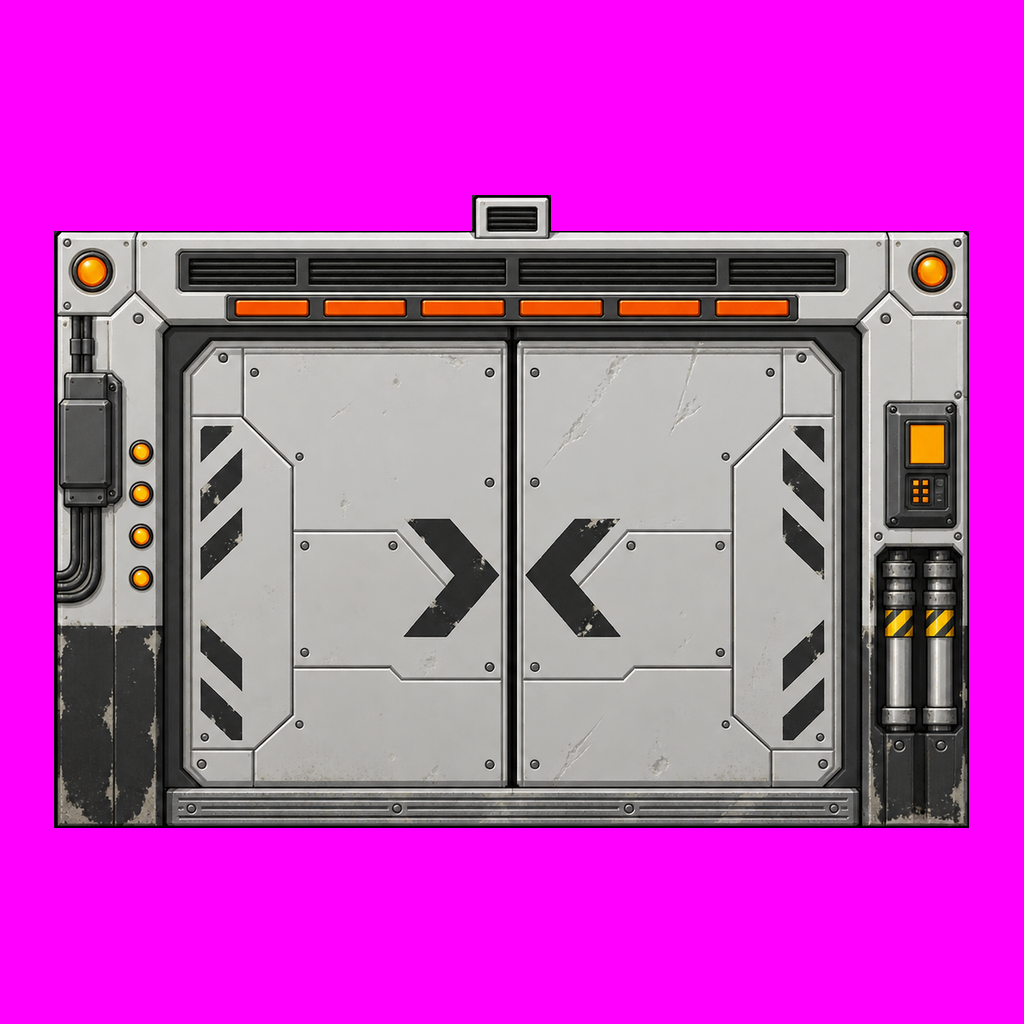
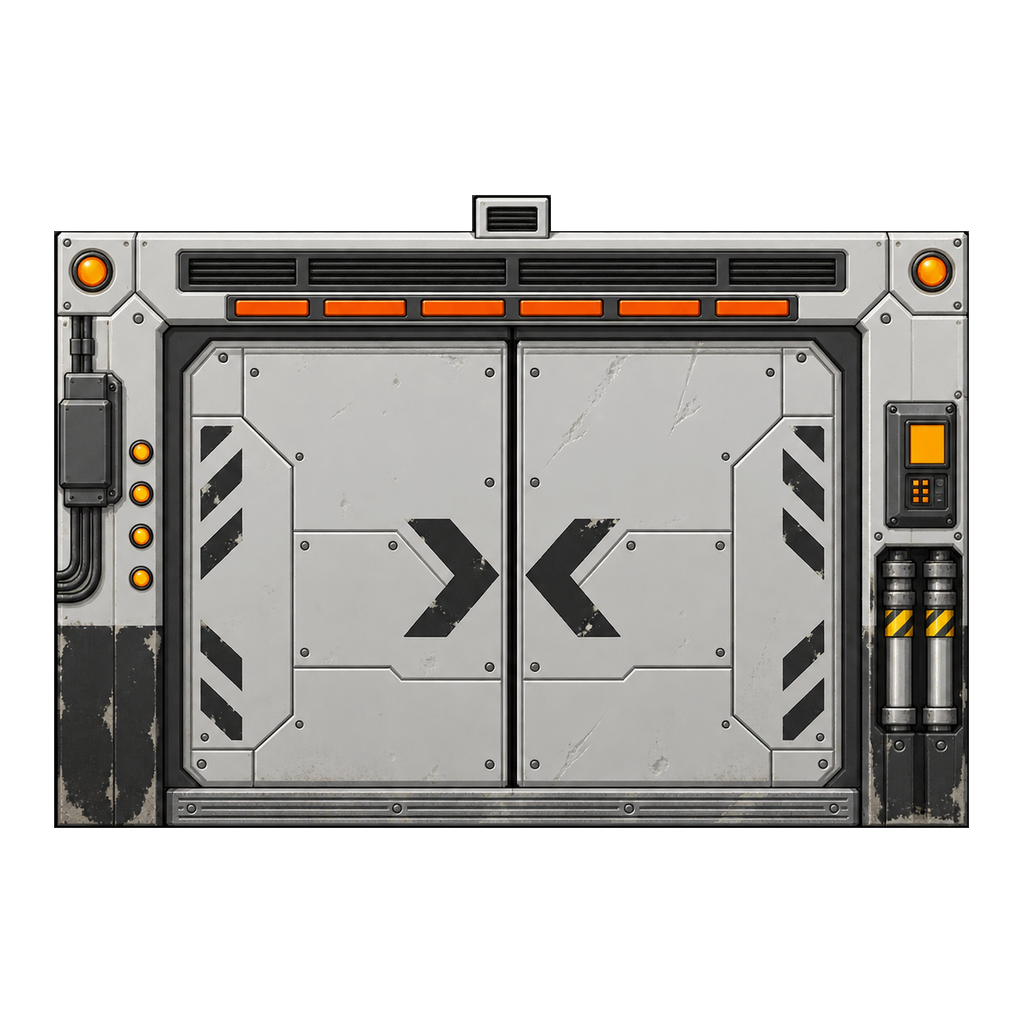
工程區換上使用者手修的乾淨版素材，刪掉四張電腦桌
- 使用者修過原圖（大門、製造機、靠牆設備、貨架、機台、小雜物）：去掉鏽斑油污，改成乾淨的 2070 年星艦科技風，背景改透明
- 刪掉研發桌、設計終端、製造機操作台、檢修工作台（太舊工業風）；配桌的椅凳先不擺
- skill 補上年代感：2070 年星艦科技、乾淨保養良好、不要鏽，prompt 範本加上這句

diff --git a/src/game/facility.test.ts b/src/game/facility.test.ts
@@ -132,7 +132,6 @@ console.log('greenhouse ok');
   for (let y = 0; y < e.height; y++) for (let x = 0; x < e.width; x++) {
     if (blocked(e, x, y)) { assert.equal(walkable(e, centre(x, y)), false, `tile ${x},${y}`); continue; }
     if (!walkable(e, centre(x, y))) continue;   // 牆簷底下那一列只有上緣能站
-    if (y === 3 && x <= 4) { assert.deepEqual(findPath(e, fromC, centre(x, y)), [], `tile ${x},${y} is behind the valves and R&D bench`); continue; }
     assert.ok(findPath(e, fromC, centre(x, y)).length, `engineering tile ${x},${y} reachable`);
   }
   const { passage } = door, wallTop = passage.y, wallBottom = passage.y + passage.h;

diff --git a/tools/art/engineering_objects.py b/tools/art/engineering_objects.py
@@ -9,23 +9,20 @@ sheet／order：在哪張生圖、第幾件（由左到右、由上到下）。t
 T = 96
 
 # (id, 名稱, cx, bottom, width, depth, sheet, order, text, stand)
+# 風格：2070 年的星艦科技，乾淨、少磨損、不生鏽（使用者 2026-10-04 修過原圖，去掉鏽斑油污）
 OBJECTS = [
     # 左上：研發角
     ('valves',          '管線閥門組',     184, 495, 177, .7, 'batch7_wall_units', 0, '幾個手輪閥門和壓力錶，其中一支指針微微抖動。', None),
-    ('rnd-bench',       '研發桌',         394, 472, 218, 1, 'batch9_desks', 0, '拆開的原型機攤在桌上，旁邊的示波器跳著波形。', (300, 520)),
     ('robot-arm',       '組裝機械手臂',   597, 453, 120, 1, 'batch10_machines', 1, '機械手臂把小零件一個個裝進外殼，動作很穩。', None),
-    ('fab-console',     '設計終端',       398, 892, 201, 1, 'batch9_desks', 1, '螢幕上開著一張改良到一半的零件設計圖。', (300, 940)),
     # 右上：製造區
     ('drums',           '耗材油桶',       820, 399, 155, .9, 'batch11_small', 0, '', None),
     ('fabricator',      '大型製造機',    1162, 537, 525, 2.2, 'batch6_fabricator', 0, '加工艙裡正在成形一批管件接頭，噴頭來回移動，光一明一滅。', (1162, 600)),
-    ('section-monitor', '製造機操作台',  1004, 705, 207, 1, 'batch9_desks', 2, '排程上列著幾筆零件訂單，最上面那筆標著「急件」。', (1110, 760)),
     ('materials',       '材料架',        1328, 1083, 225, .8, 'batch8_shelving', 0, '板材、管材和一捲捲線材，按尺寸分格堆放。', (1180, 1060)),
     # 西牆
     ('power-panel',     '配電盤',         183, 1118, 180, .8, 'batch7_wall_units', 1, '一整排斷路器，每個開關旁都貼著手寫標籤。', (330, 1100)),
     ('tool-wall',       '工具牆',         209, 1450, 197, .8, 'batch7_wall_units', 2, '扳手、焊槍和量具照輪廓掛好，只有一格是空的。', (360, 1430)),
     ('lockers',         '休息角',         239, 1770, 257, .8, 'batch7_wall_units', 3, '置物櫃上貼著班表，咖啡機旁擺著一個沾了油漬的馬克杯。', (420, 1740)),
     # 中央：維修區
-    ('workbench',       '檢修工作台',     501, 1170, 228, 1, 'batch9_desks', 3, '桌面上有拆到一半的設備，螺絲按順序排在磁盤裡。', (380, 1220)),
     ('repair',          '維修中機台',     788, 1173, 285, 1.2, 'batch10_machines', 0, '外殼被打開了，裡面有一片燒黑的電路板。', (788, 1230)),
     ('tool-cart',       '工具推車',      1065, 1161, 165, .8, 'batch11_small', 2, '', None),
     # 東牆
@@ -37,12 +34,8 @@ OBJECTS = [
 ]
 
 # 椅子、凳子：不擋路、不能互動，同一張圖可以擺很多次（id, 圖, cx, bottom）
-SEATS = [
-    ('stool-rnd',       'stool', 403, 502),
-    ('stool-terminal',  'stool', 398, 927),
-    ('chair-console',   'chair', 997, 730),
-    ('chair-workbench', 'chair', 497, 1200),
-]
+# 2026-10-04 使用者刪掉四張電腦桌（太舊工業風），配桌子的椅凳也先不擺；圖保留，要用時加回來，例：('chair-console', 'chair', 997, 730)
+SEATS = []
 # 椅子、凳子的原圖在哪張、第幾件、遊戲裡多寬
 SEAT_SPRITES = {'chair': ('batch11_small', 4, 78), 'stool': ('batch11_small', 5, 57)}
 

diff --git a/docs/scenes/engineering.md b/docs/scenes/engineering.md
@@ -5,6 +5,7 @@
 機台依工作流程分區（v5，2026-10-04）：大門內側右邊收件區（待修品架、剛送來的待修品、貨箱）、左邊休息角；中央 4 格寬通道從大門直通維修區（維修中機台在通道盡頭，四周警示條紋，兩旁工作台與工具推車）；右上製造區（大型製造機、操作台，東牆材料架供料、零件架靠近維修區）；左上研發角（研發桌、組裝手臂、設計終端，離門最遠）；西牆公用設備（閥門組接北牆管線、配電盤、工具牆）。
 
 - 機台照 `.claude/skills/starport-scene-props/` 的流程做（2026-10-04 v6）：先在底圖上生兩張擺設參考圖（`tools/art/engineering/raw/batch4_dressed_top.png`、`batch5_dressed_bottom.png`），再依參考圖分 6 批生最終物件（`batch6`–`batch11`），prompt 在 `場景/工程區/`。第一版（batch2、batch3）是正面圖，已淘汰。
+- 2026-10-04 使用者手修原圖：去掉鏽斑油污，改成乾淨的 2070 年星艦科技風；刪掉四張電腦桌（研發桌、設計終端、製造機操作台、檢修工作台），配桌的椅凳也先不擺（圖保留在 props/chair、stool）。原圖改成透明背景。
 - 機台清單 `tools/art/engineering_objects.py`：位置與大小是量自參考圖的遊戲 px（底部中心、圖寬、碰撞深度），加上在哪張生圖第幾件。椅子、凳子在 `SEATS`，不擋路。
 - **要修改時**：
   - 改圖：修 `tools/art/engineering/raw/<批次>.png`，再跑 `uv run --with pillow --with numpy --with scipy python tools/art/engineering_props.py <批次>`（或 `all`）。直接改 `public/assets/engineering/props/<名稱>.webp` 也可以，但重切會被蓋掉。
@@ -12,7 +13,6 @@
   - 改完都要重跑 `engineering_build.py`，再跑 `engineering_door.py cut tools/art/engineering/raw/batch1_door.png`。
 - 切圖：自動找出每件（相距 40 px 內的併成一件，散落零件併給 80 px 內的大塊），依閱讀順序對到清單，縮到參考圖量出的寬度；比例差太多的（機械手臂）改照高度（`HEIGHT_FIT`）。
 - 碰撞是每件從底邊往上 depth 格的精細矩形（collisionRects）；互動站位由 `engineering_build.py` 自動挑：從入口走得到、在互動範圍內（離圖 ≤ 48 px）、最靠近正前方、不站在椅子上。
-- 第 3 列第 1–4 欄夾在閥門組／研發桌和北牆之間，走不到，是刻意的。
 - GM 會拿到工程區的物件清單與玩家附近的物件（facilityContext.ts）。
 
 - 地圖 16 × 30 格（每格 96 px）。室內第 0–18 列，其中 0–2 列是北牆立面；第 19 列以下是走廊。

diff --git a/docs/PROGRESS.md b/docs/PROGRESS.md
@@ -53,7 +53,7 @@
 - 居住區 A 走廊：可遊玩，說明見 `docs/scenes/corridor-a.md`。走廊 B–D 只有擺放設定，素材沿用 A 走廊。
 - A 走廊右端步行接溫室；溫室招牌不再觸發傳送，從 A 走廊進溫室時角色面向右方。
 - 艦橋：可遊玩，說明見 `docs/scenes/bridge.md`。
-- 工程區：可遊玩，18 件機台＋4 張椅凳已擺（RPG 斜俯視，照 starport-scene-props 流程重生；依工作流程分區：收件區、中央通道、維修區、製造區、研發角），說明見 `docs/scenes/engineering.md`。下方走廊沿用居住區走廊素材，左通 C、右通 D；厚重門要按 E（或點門）才開、走遠自己關，門沒開完會擋人。居住區走廊左右兩端都能直接走進有場景的設施（B 左端進溫室、C 右端與 D 左端進工程區）。定位是外環的維修與研發工坊，沒有引擎與重力裝置。
+- 工程區：可遊玩，14 件機台已擺（RPG 斜俯視、乾淨的 2070 年風格，使用者手修過；電腦桌已刪；依工作流程分區：收件區、中央通道、維修區、製造區、研發角），說明見 `docs/scenes/engineering.md`。下方走廊沿用居住區走廊素材，左通 C、右通 D；厚重門要按 E（或點門）才開、走遠自己關，門沒開完會擋人。居住區走廊左右兩端都能直接走進有場景的設施（B 左端進溫室、C 右端與 D 左端進工程區）。定位是外環的維修與研發工坊，沒有引擎與重力裝置。
 
 ## 角色素材
 
